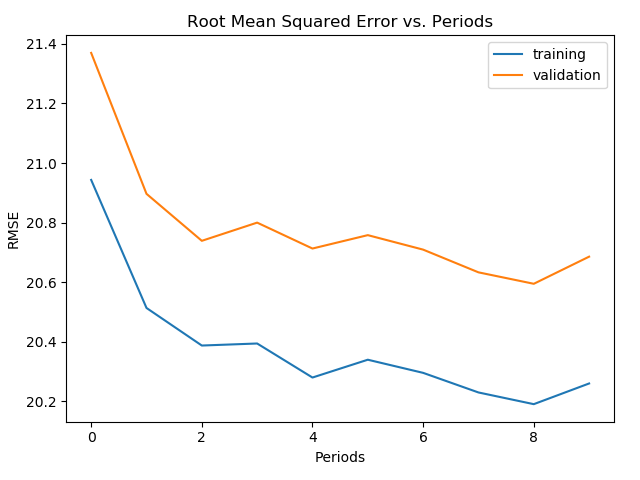
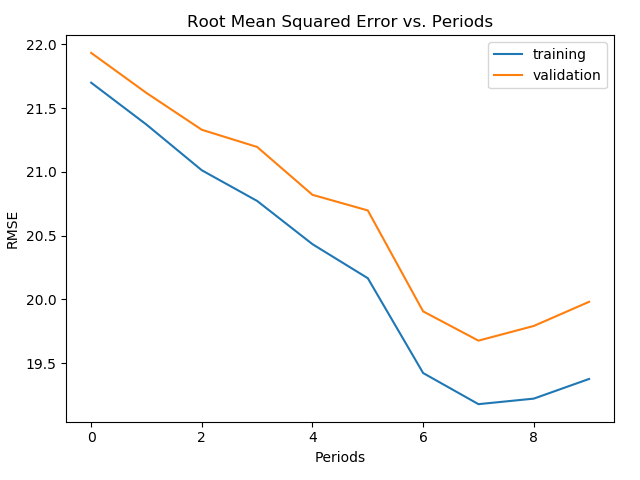
19.98

diff --git a/AllFeatures.py b/AllFeatures.py
@@ -170,6 +170,7 @@ def train_model(
       A `LinearRegressor` object trained on the training data.
     """
 
+    global validation_root_mean_squared_error, training_root_mean_squared_error
     periods = 10
     steps_per_period = steps / periods
 
@@ -245,6 +246,9 @@ def train_model(
     plt.legend()
     plt.show()
 
+    print("Final RMSE (on training data):   %0.2f" % training_root_mean_squared_error)
+    print("Final RMSE (on validation data): %0.2f" % validation_root_mean_squared_error)
+
     return dnn_regressor
 
 
@@ -252,7 +256,7 @@ dnn_regressor = train_model(
     my_optimizer=tf.train.AdagradOptimizer(learning_rate=0.3),
     steps=10000,
     batch_size=1000,
-    hidden_units=[10, 8, 5],
+    hidden_units=[20, 20, 10, 5],
     training_examples=training_examples,
     training_targets=training_targets,
     validation_examples=validation_examples,
